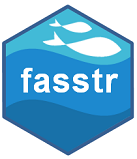
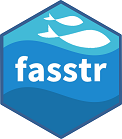
updated sticker, badges, travis.yml

Changed region(s): [[0.0, 0.0, 1.0, 1.0], [0.7131, 0.7194, 0.8607, 0.7482]]

diff --git a/README.md b/README.md
@@ -3,10 +3,19 @@
 
 # fasstr <img src="tools/readme/fasstr.PNG" align="right" />
 
+<!-- badges: start -->
+
 <a id="devex-badge" rel="Delivery" href="https://github.com/BCDevExchange/assets/blob/master/README.md"><img alt="In production, but maybe in Alpha or Beta. Intended to persist and be supported." style="border-width:0" src="https://assets.bcdevexchange.org/images/badges/delivery.svg" title="In production, but maybe in Alpha or Beta. Intended to persist and be supported." /></a>
 [![License](https://img.shields.io/badge/License-Apache%202.0-blue.svg)](https://opensource.org/licenses/Apache-2.0)
 [![Travis build
 status](https://travis-ci.org/bcgov/fasstr.svg?branch=master)](https://travis-ci.org/bcgov/fasstr)
+
+[![CRAN\_Status\_Badge](https://www.r-pkg.org/badges/version/fasstr)](https://cran.r-project.org/package=fasstr)
+[![CRAN
+Downloads](https://cranlogs.r-pkg.org/badges/fasstr?color=brightgreen)](https://CRAN.R-project.org/package=fasstr)
+[![cran
+checks](https://cranchecks.info/badges/worst/fasstr)](https://CRAN.R-project.org/web/checks/check_results_fasstr.html)
+<!-- badges: end -->
 
 </div>
 

diff --git a/NEWS.md b/NEWS.md
@@ -1,3 +1,14 @@
+fasstr 0.3.2
+=========================
+
+Updated: 13 Jan 2020
+
+#### Updates:
+
+  * README updated: sticker, badges
+  
+
+
 fasstr 0.3.1
 =========================
 
